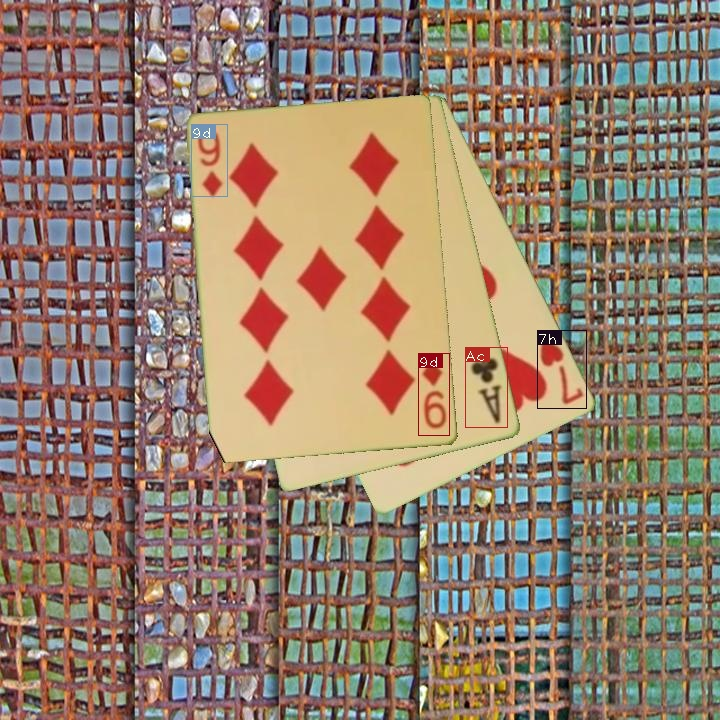
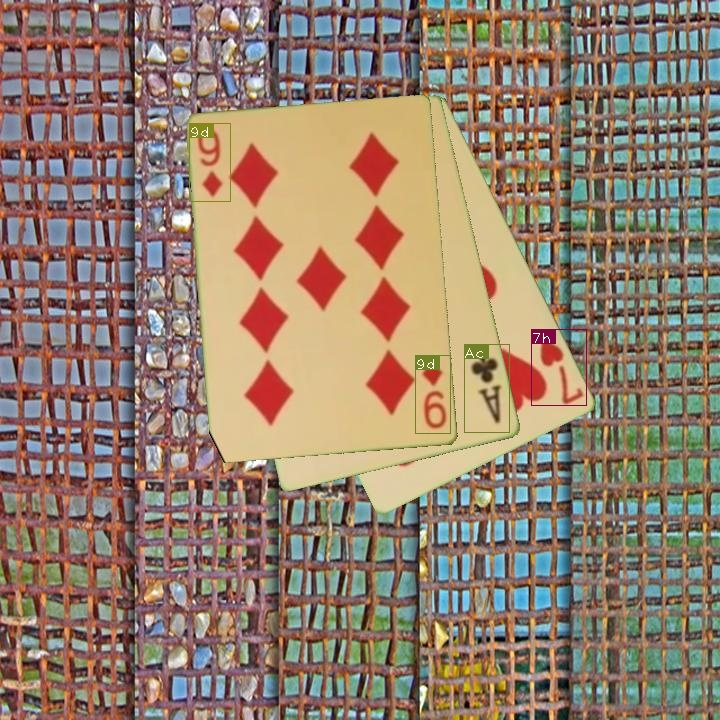
util

Changed region(s): [[0.55, 0.4583, 0.7028, 0.6111], [0.7028, 0.4583, 0.825, 0.5806], [0.2444, 0.1528, 0.3361, 0.275]]

diff --git a/detect.py b/detect.py
@@ -187,7 +187,7 @@ def arg_parse():
                         "Image / Directory to store detections to",
                         default = "res", type = str)
     parser.add_argument("--confidence", dest = "confidence", help = "Object Confidence to filter predictions", default = 0.5)
-    parser.add_argument("--nms_thresh", dest = "nms_thresh", help = "NMS Threshhold", default = 0.4)
+    parser.add_argument("--nms_thresh", dest = "nms_thresh", help = "NMS Threshhold", default = 0.5)
     parser.add_argument("--cfg", dest = 'cfgfile', help = 
                         "Config file",
                         default = "cfg/obj-yolov3.cfg", type = str)

diff --git a/util.py b/util.py
@@ -12,7 +12,10 @@ def class_num_to_tuple(class_n):
     suit = int(class_n / 13)
     #cast to convert from tensor
     value = int(class_n % 13)
-    return (suit, value)
+    value += 1
+    if value == 1:
+        value = 14
+    return (value, suit)
 
 def unique(tensor):
     tensor_np = tensor.cpu().numpy()
